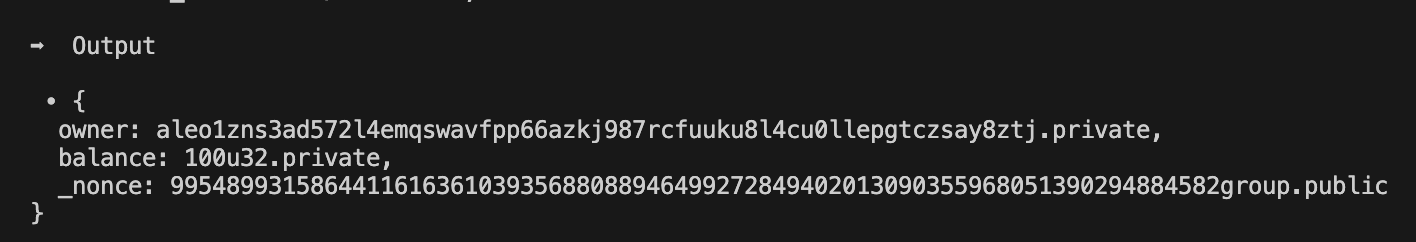
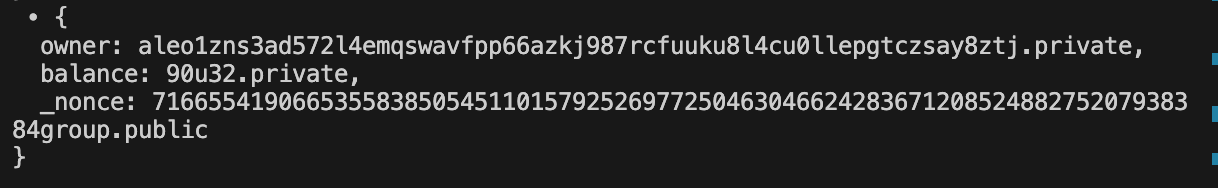
add transfer screenshot

diff --git a/README.md b/README.md
@@ -149,7 +149,7 @@ Let's make sure that our program is working by running the following commands:
 Copy the output record from the mint transition and paste it into the `./inputs/project_name.in` file under the `[transfer]` section. Be sure to remove the `.private` and `.public` suffixes.
 
 ##### **TODO** add your screenshot of mint output here:
-![](./transfer_output.png)
+![](./mint_output.png)
 
 3. Can we transfer tokens? `leo run transfer`
 
@@ -177,6 +177,7 @@ Copy the output record from the mint transition and paste it into the `./inputs/
 You can see here, one account now has 90 tokens and the other has 10, meaning we succesfully transfered 10 tokens.
 
 ##### **TODO** add your screenshot of transfer output here:
+![](./transfer_output.png)
 
 ### Step 3. Create our Deployment Script
 
